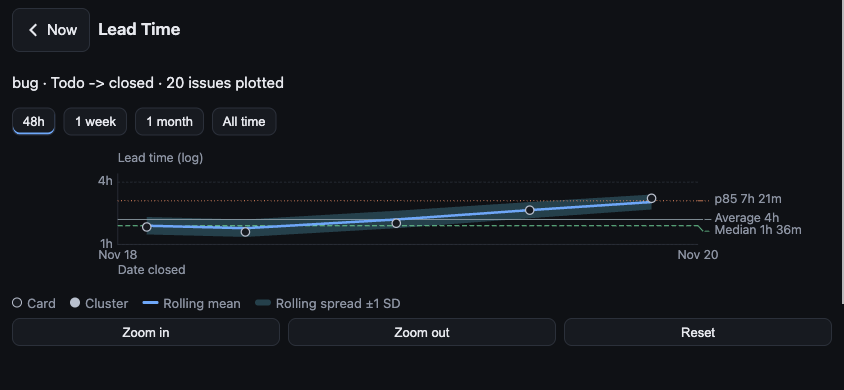
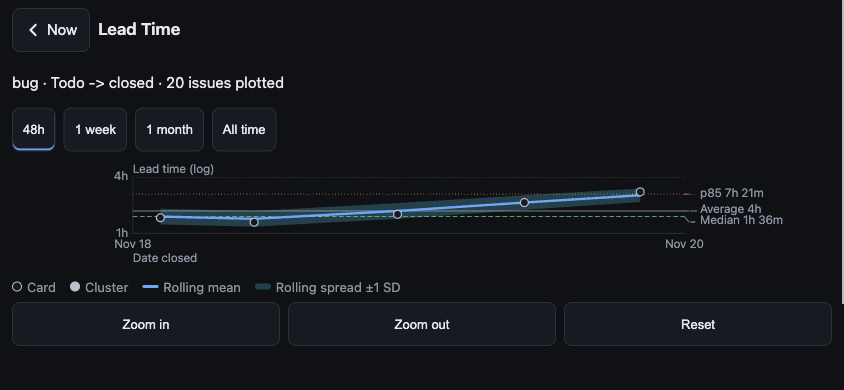
Draw the Loop chart as the desktop chart in landscape
The visual review found three defects. The chart's compact buttons stood
under the phone's 44 px control floor, so they take the floor back. The lead
chart spent 44 px of top and bottom margin inside the measured box, so the
plot collapsed on the phone's short side; the box now gives the plot its room
and the payload frame keeps its own margins. The Loop screen drew the phone's
old stacked lanes, not the desktop chart; in landscape it now draws the
desktop chart's markup, banded by column, with its gutter, its means and its
trip bar, and the lanes serve a narrow page only.

The chip route list learns the Cumulative Flow route the hub already serves,
and the Loop suites assert the desktop chart and its four column segments.

Refs #2504

diff --git a/contrib/squad-goal/scripts/hub-mobile-chart.js b/contrib/squad-goal/scripts/hub-mobile-chart.js
@@ -12,10 +12,10 @@ const MLT_REF = [   // each reference line: the payload's key, its paint, its 1p
 const mltEsc = s => String(s == null ? "" : s).replace(/[&<>"']/g, c => ({ "&": "&amp;", "<": "&lt;", ">": "&gt;", '"': "&quot;", "'": "&#39;" }[c]));
 const mltFrame = c => c && c.plot_frame && c.plot_frame.width > 0 ? c.plot_frame : { width: 720, height: 240 };
 const mltX = (x, w) => MLT_P + x * w;   // plot fraction to the drawing's x
-const mltY = (y, h) => MLT_P + h - y * h;   // plot fraction to the drawing's y
+const mltY = (y, base, h) => base - y * h;   // plot fraction to the drawing's y, down from the axis baseline
 const mltVal = v => v && v.text ? v.text : "?";
-const mltLine = (v, col, dash, w, h) => v && v.y != null
-  ? `<line x1=${MLT_P} x2=${MLT_P + w} y1=${mltY(v.y, h)} y2=${mltY(v.y, h)} stroke="${col}" stroke-width=1${dash ? ` stroke-dasharray="${dash}"` : ""}></line>`
+const mltLine = (v, col, dash, w, base, h) => v && v.y != null
+  ? `<line x1=${MLT_P} x2=${MLT_P + w} y1=${mltY(v.y, base, h)} y2=${mltY(v.y, base, h)} stroke="${col}" stroke-width=1${dash ? ` stroke-dasharray="${dash}"` : ""}></line>`
   : "";   // one 1px reference line, patterned so it reads in grayscale (#1332)
 const mltLegend = (c, band) => `<p class=mltlg><span><i class=mlthollow></i>Card</span><span><i class=mltfilled></i>Cluster</span><span><i class=mltroll></i>Rolling mean</span>` +
   (band ? `<span><i class=mltband></i>Rolling spread ±1 SD</span>` : "") + `</p>`   // the series legend names every mark the plot draws (#1332, #2504)
@@ -26,22 +26,24 @@ const mltChart = (c, size) => {
   const f = mltFrame(c), box = size ? mcChartBox(size) : null;
   const gut = box ? 74 : 0;   // the reference values sit in the right gutter of a chart screen, as on the desktop (#1332)
   const W = box ? box.width : MLT_P + f.width + 4, H = box ? box.height : f.height + 2 * MLT_P + 8;
-  const w = Math.max(40, W - MLT_P - 4 - gut), h = Math.max(30, H - 2 * MLT_P), base = MLT_P + h, ink = "var(--chart-axis)";
-  const grid = (c.ticks || []).map(t => `<line x1=${MLT_P} y1=${mltY(t.y, h)} x2=${MLT_P + w} y2=${mltY(t.y, h)} stroke="var(--chart-grid)" stroke-dasharray="3 2"></line>` +
-    `<text x=${MLT_P - 6} y=${mltY(t.y, h) + 4} text-anchor=end fill="${ink}">${mltEsc(t.text)}</text>`).join("");
+  const pT = box ? 20 : MLT_P, pB = box ? 40 : MLT_P;   // the phone's short side gives the plot its room; the payload frame keeps its own margins (#2504)
+  const w = Math.max(40, W - MLT_P - 4 - gut), h = Math.max(30, H - pT - pB), base = pT + h, ink = "var(--chart-axis)";
+  const Y = v => mltY(v, base, h);
+  const grid = (c.ticks || []).map(t => `<line x1=${MLT_P} y1=${Y(t.y)} x2=${MLT_P + w} y2=${Y(t.y)} stroke="var(--chart-grid)" stroke-dasharray="3 2"></line>` +
+    `<text x=${MLT_P - 6} y=${Y(t.y) + 4} text-anchor=end fill="${ink}">${mltEsc(t.text)}</text>`).join("");
   const xs = (c.xticks || []).map(t => `<text x=${mltX(t.x, w)} y=${base + 18} text-anchor=middle fill="${ink}">${mltEsc(t.text)}</text>`).join("");
-  const axes = `<line x1=${MLT_P} y1=${MLT_P - 10} x2=${MLT_P} y2=${base} stroke="var(--chart-grid)"></line>` +
+  const axes = `<line x1=${MLT_P} y1=${base - h} x2=${MLT_P} y2=${base} stroke="var(--chart-grid)"></line>` +
     `<line x1=${MLT_P} y1=${base} x2=${MLT_P + w} y2=${base} stroke="var(--chart-grid)"></line>` +
-    `<text x=${MLT_P} y=${MLT_P - 24} text-anchor=start fill="${ink}">Lead time (log)</text>` +
+    `<text x=${MLT_P} y=${base - h - 6} text-anchor=start fill="${ink}">Lead time (log)</text>` +
     `<text x=${MLT_P} y=${base + 36} text-anchor=start fill="${ink}">Date closed</text>`;   // the phone names no board column: the hub's column names stay out of its page (ADR-0137)
-  const refs = MLT_REF.map(([key, col, dash]) => mltLine(c[key], col, dash, w, h)).join("");
+  const refs = MLT_REF.map(([key, col, dash]) => mltLine(c[key], col, dash, w, base, h)).join("");
   // The reference values stand in the right gutter, each joined to its own line by a swatch, as the desktop draws them (#2504).
   const tags = box ? (() => {
     const rows = MLT_REF.map(([key, col, dash]) => {
       const v = c[key]; if (!v || v.y == null) return null;
-      return { name: v.label || key, text: mltVal(v), col, dash, y: mltY(v.y, h) };
+      return { name: v.label || key, text: mltVal(v), col, dash, y: Y(v.y) };
     }).filter(Boolean).sort((a, b) => a.y - b.y);
-    let at = MLT_P;
+    let at = base - h;
     for (const t of rows) { t.ty = Math.max(t.y, at); at = t.ty + 14; }
     const over = rows.length ? rows[rows.length - 1].ty - base : 0;
     if (over > 0) for (const t of rows) t.ty -= over;
@@ -53,10 +55,10 @@ const mltChart = (c, size) => {
   // The rolling spread is the payload's own per-dot high and low readings, drawn as the desktop draws it (#2504, #1334).
   const bp = box && dots.length && dots.every(d => d.rolling && d.rolling.y_high != null && d.rolling.y_low != null)
     ? [...dots.map(d => ({ x: d.x, y: d.rolling.y_high })), ...dots.slice().reverse().map(d => ({ x: d.x, y: d.rolling.y_low }))] : null;
-  const band = bp ? `<polygon points="${bp.map(p => `${mltX(p.x, w)},${mltY(p.y, h)}`).join(" ")}" fill="var(--chart-series-3)" fill-opacity=".28"><title>Rolling spread ±1 SD</title></polygon>` : "";
-  const roll = dots.length ? `<polyline fill=none stroke="var(--chart-bar)" stroke-width=3 points="${dots.map(d => `${mltX(d.x, w)},${mltY(d.rolling.y, h)}`).join(" ")}"></polyline>` : "";   // the trend is the strongest line (#1332)
+  const band = bp ? `<polygon points="${bp.map(p => `${mltX(p.x, w)},${Y(p.y)}`).join(" ")}" fill="var(--chart-series-3)" fill-opacity=".28"><title>Rolling spread ±1 SD</title></polygon>` : "";
+  const roll = dots.length ? `<polyline fill=none stroke="var(--chart-bar)" stroke-width=3 points="${dots.map(d => `${mltX(d.x, w)},${Y(d.rolling.y)}`).join(" ")}"></polyline>` : "";   // the trend is the strongest line (#1332)
   const outline = (c.mark && c.mark.outline) ?? 1.5;   // a payload from before `mark` keeps the 1.5 px ring (#1432)
-  const marks = (c.clusters || []).map((k, i) => `<circle data-lt-k="${i}" cx=${mltX(k.x, w)} cy=${mltY(k.y, h)} r=${k.r} fill="${k.count > 1 ? "var(--chart-ink)" : "var(--chart-bg)"}" stroke="var(--chart-ink)" stroke-width=${outline} style="cursor:pointer"></circle>`).join("");   // one hollow dot per card, one filled dot per cluster, at the payload's own sizes (#1331, #1432)
+  const marks = (c.clusters || []).map((k, i) => `<circle data-lt-k="${i}" cx=${mltX(k.x, w)} cy=${Y(k.y)} r=${k.r} fill="${k.count > 1 ? "var(--chart-ink)" : "var(--chart-bg)"}" stroke="var(--chart-ink)" stroke-width=${outline} style="cursor:pointer"></circle>`).join("");   // one hollow dot per card, one filled dot per cluster, at the payload's own sizes (#1331, #1432)
   const svg = `<svg data-lt viewBox="0 0 ${W} ${H}" role="img" aria-label="Lead time">${grid}${xs}${axes}${band}${refs}${roll}${marks}${tags}</svg>`;   // a chart screen reserves the right gutter for the reference values (#2504)
   return { svg, legend: mltLegend(c, !!bp) };
 };

diff --git a/contrib/squad-goal/scripts/hub-profiler.js b/contrib/squad-goal/scripts/hub-profiler.js
@@ -308,9 +308,12 @@ function profTrip(t,phone){
   +`<td>${c.column==="testing"&&c.slot_wait_s!=null?profTripNum(c.slot_wait_s):dash}</td><td>${c.column==="testing"&&c.gate_run_s!=null?profTripNum(c.gate_run_s):dash}</td></tr>`).join("")}</tbody></table>`;
  // The rework line (#2292): a stint that went back to work counts in no column; the rule layer words the line.
  const rw=t.rework&&t.rework.text?`<p class=tprw>${esc(t.rework.text)}</p>`:"";
- // The phone draws the lanes in place of the bar, with the peak and the saturation sentence above them.
+ // The phone draws the lanes in place of the bar, with the peak and the saturation sentence above them. A chart screen
+ // draws only with the phone in landscape, and there it is the desktop chart's markup, sized to the measured box
+ // (SPEC 2498, #2504): the lanes serve a narrow page, and a page without the chart rules keeps them.
  const noSlot=profNoSlotGates(t);
- if(phone)return `<section id=proftrip>${head}<p class=tpn>${n} deliveries in the last ${span}: the chart folds ${cols.length} columns, one per board column, in the order of the rows below. Each column's width is its time per issue divided by its parallelism, the mean number of issues standing in it at once.${noSlot}</p>`
+ const narrow=typeof mcLandscape!=="function"||!mcLandscape(window.innerWidth,window.innerHeight);
+ if(phone&&narrow)return `<section id=proftrip>${head}<p class=tpn>${n} deliveries in the last ${span}: the chart folds ${cols.length} columns, one per board column, in the order of the rows below. Each column's width is its time per issue divided by its parallelism, the mean number of issues standing in it at once.${noSlot}</p>`
   +profTripFacts(t)+profTripLanes(t)+table+rw+`</section>`;
  // A RAM field the record never carried is named, so a dash never reads as zero memory use (#2253).
  const ramReason=t.ram_minutes===0?"No RAM reading in this window: the load record has no memory field there.":"";

diff --git a/contrib/squad-goal/scripts/hub-mobile.html b/contrib/squad-goal/scripts/hub-mobile.html
@@ -293,11 +293,11 @@ nav button[aria-current=page]{color:var(--fg);box-shadow:inset 0 2px 0 var(--acc
 .chart-screen #ltlegend .mltlg+.mltlg{display:none}   /* the reference values stand in the plot's gutter (#2504) */
 .chart-screen #ltpin,.chart-screen #cfdpin{flex:none}
 .chart-screen #ltbars,.chart-screen #ltzoom,.chart-screen #cfdctl{flex:none;margin:2px 0}
-.chart-screen #ltbars button,.chart-screen #ltzoom button{min-height:28px;padding:2px 10px;font-size:var(--fs-caption)}
+.chart-screen #ltbars button,.chart-screen #ltzoom button{padding:2px 10px;font-size:var(--fs-caption)}   /* the phone's 44 px control floor holds (#2504) */
 body.chart #lead-actions,body.chart #cfd-actions,body.chart #prof-actions{display:none}   /* the head holds the one back control (#2504) */
 #cfdctl{display:flex;flex-wrap:wrap;gap:4px 10px;align-items:center;color:var(--mute);font-size:var(--fs-caption)}
-#cfdctl select{min-height:36px;background:var(--panel);color:var(--fg);border:1px solid var(--line);border-radius:var(--radius-md);font-size:var(--fs-caption)}
-#cfdctl summary{cursor:pointer;min-height:36px;display:flex;align-items:center}
+#cfdctl select{min-height:44px;background:var(--panel);color:var(--fg);border:1px solid var(--line);border-radius:var(--radius-md);font-size:var(--fs-caption)}   /* the phone's control floor (#2504) */
+#cfdctl summary{cursor:pointer;min-height:44px;display:flex;align-items:center}
 #cfdstates{display:grid;gap:2px;padding:6px 0}
 #cfdpin,#ltpin{background:var(--panel)}
 @media (orientation: portrait){

diff --git a/tests/test_hub_mobile_chart_browser.py b/tests/test_hub_mobile_chart_browser.py
@@ -50,9 +50,10 @@ LEAD = {"t": 1, "plot_frame": {"width": 672, "height": 212},
                  "control": {k: LEAD_VIEW for k in ("12h", "1", "2", "3", "7", "14", "30", "all")},
                  "columns": ["Todo", "Closed"], "coverage": None}}
 BOARD = {"t": 1, "err": None, "labels": [], "lc": {}, "cases": [], "flow": None, "groups": []}
+from tests.test_hub_mobile_profiler import PHONE_TRIP_VIEW  # the Loop chart's own payload, one shape for both screens
 API = {
     "/api/board": BOARD, "/api/runs": [], "/api/ended": [], "/api/stats": {"buckets": [], "totals": {}, "models": []},
-    "/api/chart/lead": LEAD, "/api/chart/cfd": CFD, "/api/profiler": {}, "/api/loop": {}, "/api/load": {}, "/api/live": {},
+    "/api/chart/lead": LEAD, "/api/chart/cfd": CFD, "/api/profiler": PHONE_TRIP_VIEW, "/api/loop": {}, "/api/load": {}, "/api/live": {},
     "/api/slots": {}, "/api/subs": {}, "/api/models": {}, "/api/columns": {}, "/api/limits": {}, "/api/delivery": {},
     "/api/issue": {}, "/api/status": {}, "/api/leadtime": LEAD_VIEW,
 }
@@ -157,6 +158,35 @@ def test_a_chart_screen_draws_landscape_and_hints_in_portrait(page_html):
                 "the lead chart does not fill the landscape width"
             assert page.is_hidden("#lead-hint"), "the landscape lead chart still shows the rotate hint"
             assert page.is_hidden("nav"), "the lead chart screen carries a tab bar"
+        finally:
+            browser.close()
+            server.shutdown()
+
+
+@pytest.mark.heavy
+def test_the_loop_chart_draws_the_desktop_chart_in_landscape(page_html):
+    sync = pytest.importorskip("playwright.sync_api")
+    with sync.sync_playwright() as p:
+        try:
+            browser = p.chromium.launch(channel="chrome")
+        except sync.Error as e:
+            pytest.skip(f"Chrome is not available: {' '.join(str(e).split())[:200]}")
+        server, port = _serve(page_html)
+        base = f"http://127.0.0.1:{port}/p/x/mobile"
+        try:
+            page = browser.new_page(viewport={"width": 844, "height": 390}, device_scale_factor=3)
+            _boot(page, base, "#/now/profiler")
+            page.wait_for_function("() => !!document.querySelector('#proftrip svg text.ptn')")
+
+            # The Loop chart is the desktop chart's markup, sized to the landscape width (#2498, #2504).
+            assert page.eval_on_selector("#proftrip svg", "e => e.getBoundingClientRect().width") > 800, \
+                "the Loop chart does not fill the landscape width"
+            titles = page.eval_on_selector_all("#proftrip svg text.ptn", "els => els.map(e => e.textContent)")
+            assert titles == ["Tokens", "Machine"], f"the desktop chart's two lane titles: {titles}"
+            assert not page.eval_on_selector_all("#proftrip .ptlane", "els => els.length"), \
+                "the phone drew its own stacked lanes, not the desktop chart"
+            assert page.is_hidden("#prof-hint"), "the landscape Loop chart still shows the rotate hint"
+            assert page.is_hidden("nav"), "a chart screen carries a tab bar"
         finally:
             browser.close()
             server.shutdown()

diff --git a/tests/test_hub_mobile_profiler.py b/tests/test_hub_mobile_profiler.py
@@ -248,9 +248,11 @@ DRAW_TRIP = """
   profV = view;
   profDraw();
   const trip = document.getElementById("proftrip");
+  // The chart screen draws in landscape, so the trip here is the desktop chart's markup, sized to the page (#2504).
   return { vw: window.innerWidth, docW: document.documentElement.scrollWidth, trip: fit(trip),
-           lanes: [...trip.querySelectorAll("svg.ptlane")].map(fit),
-           labels: [...trip.querySelectorAll(".ptlab")].map(fit),
+           chart: fit(trip.querySelector("svg")),
+           titles: [...trip.querySelectorAll("svg text.ptn")].map(e => e.textContent.trim()),
+           segs: trip.querySelectorAll("rect.ptb-seg").length,
            cells: [...document.querySelectorAll("#proftt th, #proftt td")].map(fit),
            table: fit(document.getElementById("proftt")) };
 }
@@ -283,14 +285,12 @@ def test_the_phone_trip_fits_the_landscape_width_with_no_overlap_and_no_overflow
     assert seen["vw"] == PHONE_WIDTH, f"the phone page rendered at {seen['vw']} px, not {PHONE_WIDTH}"
     assert seen["docW"] <= PHONE_WIDTH + 0.5, f"the page scrolls sideways: {seen['docW']} px wide"
     assert seen["trip"]["right"] <= PHONE_WIDTH + 0.5, f"the trip runs past the screen: {seen['trip']}"
-    for i, lane in enumerate(seen["lanes"]):
-        assert lane["right"] <= PHONE_WIDTH + 0.5 and lane["w"] > 0, f"lane {i} leaves the screen or draws nothing: {lane}"
-    assert len(seen["labels"]) == 4, f"the trip drew {len(seen['labels'])} labels, not four"
-    for i, label in enumerate(seen["labels"]):
-        assert label["sw"] <= label["cw"] + 0.5, f"label {label['text']!r} overflows its box: {label}"
-        assert label["right"] <= PHONE_WIDTH + 0.5, f"label {label['text']!r} runs past the screen: {label}"
-        for other in seen["labels"][i + 1:]:
-            assert not _overlap(label, other), f"labels {label['text']!r} and {other['text']!r} overlap"
+    # The Loop chart is the desktop chart's markup, and it fills the landscape width (#2504).
+    assert seen["chart"]["w"] > 0 and seen["chart"]["right"] <= PHONE_WIDTH + 0.5, \
+        f"the chart leaves the screen or draws nothing: {seen['chart']}"
+    assert seen["chart"]["w"] >= seen["trip"]["w"] - 2, f"the chart does not fill the trip's width: {seen['chart']}"
+    assert seen["titles"] == ["Tokens", "Machine"], f"the desktop chart's two gutter titles: {seen['titles']}"
+    assert seen["segs"] == 4, f"the trip bar drew {seen['segs']} column segments, not four"
     assert seen["table"]["right"] <= PHONE_WIDTH + 0.5, f"the table runs past the screen: {seen['table']}"
     for cell in seen["cells"]:
         assert cell["sw"] <= cell["cw"] + 0.5, f"cell {cell['text']!r} overflows its column: {cell}"

diff --git a/tests/test_hub_mobile_board.py b/tests/test_hub_mobile_board.py
@@ -28,9 +28,9 @@ FILTER_JS = SCRIPTS / "board-filter.js"
 NODE = shutil.which("node")
 ROUTES = {"/api/status", "/api/hub", "/api/board", "/api/issue", "/api/subs", "/api/models", "/api/stats", "/api/runs", "/api/ended", "/api/version",
           "/api/promote", "/api/loop", "/api/profiler", "/api/pending", "/api/slack-link",
-          "/api/load", "/api/chart/lead", "/api/leadtime"}
+          "/api/load", "/api/chart/lead", "/api/chart/cfd", "/api/leadtime"}
 # the owner's move is a write (#829); the Monitor reads the desktop card's route (#983); the lead chart and its zoom read
-# the routes the desktop draws (#1333)
+# the routes the desktop draws (#1333); the Cumulative Flow screen reads the flow chart's own route (#2504)
 
 
 def run_js(src, expr, prelude=""):
